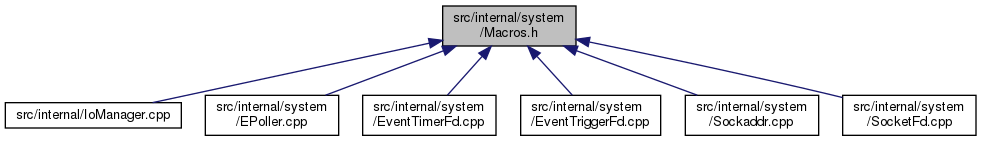
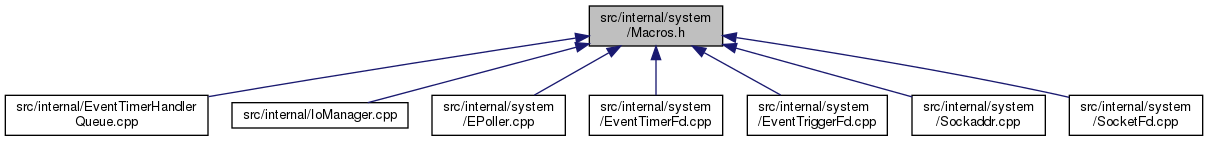
Automated deployment: Fri Apr 17 05:12:01 UTC 2020 eaa268747849b4b2ce93818d199387bb74e9e419

diff --git a/d3/dbb/EventTimerHandlerQueue_8h_source.html b/d3/dbb/EventTimerHandlerQueue_8h_source.html
@@ -71,13 +71,13 @@ $(function() {
 <div class="ttc" id="TimerHandler_8h_html"><div class="ttname"><a href="../../d4/dbc/TimerHandler_8h.html">TimerHandler.h</a></div></div>
 <div class="ttc" id="classcbee_1_1EventTimerHandlerQueue_html_abc90161ed239542453e24f8f355ccb66"><div class="ttname"><a href="../../d7/d2a/classcbee_1_1EventTimerHandlerQueue.html#abc90161ed239542453e24f8f355ccb66">cbee::EventTimerHandlerQueue::fd</a></div><div class="ttdeci">const EventTimerFd fd</div><div class="ttdef"><b>Definition:</b> EventTimerHandlerQueue.h:34</div></div>
 <div class="ttc" id="classcbee_1_1EventTimerHandlerQueue_html_a105545208ad3103f35d28542e97c029d"><div class="ttname"><a href="../../d7/d2a/classcbee_1_1EventTimerHandlerQueue.html#a105545208ad3103f35d28542e97c029d">cbee::EventTimerHandlerQueue::event</a></div><div class="ttdeci">Event event</div><div class="ttdef"><b>Definition:</b> EventTimerHandlerQueue.h:35</div></div>
-<div class="ttc" id="classcbee_1_1EventTimerHandlerQueue_html_a1a69437c4bd0cf27e185bb9898afa47c"><div class="ttname"><a href="../../d7/d2a/classcbee_1_1EventTimerHandlerQueue.html#a1a69437c4bd0cf27e185bb9898afa47c">cbee::EventTimerHandlerQueue::handleRead</a></div><div class="ttdeci">void handleRead()</div><div class="ttdef"><b>Definition:</b> EventTimerHandlerQueue.cpp:44</div></div>
-<div class="ttc" id="classcbee_1_1EventTimerHandlerQueue_html_afa38009162e929af01f66ce1c4568901"><div class="ttname"><a href="../../d7/d2a/classcbee_1_1EventTimerHandlerQueue.html#afa38009162e929af01f66ce1c4568901">cbee::EventTimerHandlerQueue::addHandler</a></div><div class="ttdeci">void addHandler(const TimerHandler &amp;handler)</div><div class="ttdef"><b>Definition:</b> EventTimerHandlerQueue.cpp:20</div></div>
+<div class="ttc" id="classcbee_1_1EventTimerHandlerQueue_html_a1a69437c4bd0cf27e185bb9898afa47c"><div class="ttname"><a href="../../d7/d2a/classcbee_1_1EventTimerHandlerQueue.html#a1a69437c4bd0cf27e185bb9898afa47c">cbee::EventTimerHandlerQueue::handleRead</a></div><div class="ttdeci">void handleRead()</div><div class="ttdef"><b>Definition:</b> EventTimerHandlerQueue.cpp:49</div></div>
+<div class="ttc" id="classcbee_1_1EventTimerHandlerQueue_html_afa38009162e929af01f66ce1c4568901"><div class="ttname"><a href="../../d7/d2a/classcbee_1_1EventTimerHandlerQueue.html#afa38009162e929af01f66ce1c4568901">cbee::EventTimerHandlerQueue::addHandler</a></div><div class="ttdeci">void addHandler(const TimerHandler &amp;handler)</div><div class="ttdef"><b>Definition:</b> EventTimerHandlerQueue.cpp:21</div></div>
 <div class="ttc" id="EventModifierInterface_8h_html"><div class="ttname"><a href="../../d3/d37/EventModifierInterface_8h.html">EventModifierInterface.h</a></div></div>
 <div class="ttc" id="classcbee_1_1EventTimerFd_html"><div class="ttname"><a href="../../df/d5c/classcbee_1_1EventTimerFd.html">cbee::EventTimerFd</a></div><div class="ttdef"><b>Definition:</b> EventTimerFd.h:8</div></div>
-<div class="ttc" id="classcbee_1_1EventTimerHandlerQueue_html_ab0661ecd47742827b60e916c84dee645"><div class="ttname"><a href="../../d7/d2a/classcbee_1_1EventTimerHandlerQueue.html#ab0661ecd47742827b60e916c84dee645">cbee::EventTimerHandlerQueue::cancelHandler</a></div><div class="ttdeci">void cancelHandler(int id)</div><div class="ttdef"><b>Definition:</b> EventTimerHandlerQueue.cpp:29</div></div>
+<div class="ttc" id="classcbee_1_1EventTimerHandlerQueue_html_ab0661ecd47742827b60e916c84dee645"><div class="ttname"><a href="../../d7/d2a/classcbee_1_1EventTimerHandlerQueue.html#ab0661ecd47742827b60e916c84dee645">cbee::EventTimerHandlerQueue::cancelHandler</a></div><div class="ttdeci">void cancelHandler(int id)</div><div class="ttdef"><b>Definition:</b> EventTimerHandlerQueue.cpp:30</div></div>
 <div class="ttc" id="classcbee_1_1EventTimerHandlerQueue_html_ae374d94a6c43fd774bd28ca21905a79c"><div class="ttname"><a href="../../d7/d2a/classcbee_1_1EventTimerHandlerQueue.html#ae374d94a6c43fd774bd28ca21905a79c">cbee::EventTimerHandlerQueue::eventModifier</a></div><div class="ttdeci">const EventModifierInterface &amp; eventModifier</div><div class="ttdef"><b>Definition:</b> EventTimerHandlerQueue.h:33</div></div>
-<div class="ttc" id="classcbee_1_1EventTimerHandlerQueue_html_ae1022edfe83299b7334d20e08183d083"><div class="ttname"><a href="../../d7/d2a/classcbee_1_1EventTimerHandlerQueue.html#ae1022edfe83299b7334d20e08183d083">cbee::EventTimerHandlerQueue::EventTimerHandlerQueue</a></div><div class="ttdeci">EventTimerHandlerQueue(const EventModifierInterface &amp;modifier)</div><div class="ttdef"><b>Definition:</b> EventTimerHandlerQueue.cpp:6</div></div>
+<div class="ttc" id="classcbee_1_1EventTimerHandlerQueue_html_ae1022edfe83299b7334d20e08183d083"><div class="ttname"><a href="../../d7/d2a/classcbee_1_1EventTimerHandlerQueue.html#ae1022edfe83299b7334d20e08183d083">cbee::EventTimerHandlerQueue::EventTimerHandlerQueue</a></div><div class="ttdeci">EventTimerHandlerQueue(const EventModifierInterface &amp;modifier)</div><div class="ttdef"><b>Definition:</b> EventTimerHandlerQueue.cpp:7</div></div>
 <div class="ttc" id="classcbee_1_1TimerHandler_html"><div class="ttname"><a href="../../de/ddd/classcbee_1_1TimerHandler.html">cbee::TimerHandler</a></div><div class="ttdef"><b>Definition:</b> TimerHandler.h:11</div></div>
 <div class="ttc" id="classcbee_1_1EventModifierInterface_html"><div class="ttname"><a href="../../d9/df8/classcbee_1_1EventModifierInterface.html">cbee::EventModifierInterface</a></div><div class="ttdef"><b>Definition:</b> EventModifierInterface.h:8</div></div>
 <div class="ttc" id="classcbee_1_1EventTimerHandlerQueue_html_a8d077bd98ecb91df335fc1ab67484473"><div class="ttname"><a href="../../d7/d2a/classcbee_1_1EventTimerHandlerQueue.html#a8d077bd98ecb91df335fc1ab67484473">cbee::EventTimerHandlerQueue::operator=</a></div><div class="ttdeci">EventTimerHandlerQueue &amp; operator=(const EventTimerHandlerQueue &amp;)=delete</div></div>
@@ -87,9 +87,9 @@ $(function() {
 <div class="ttc" id="namespacecbee_html"><div class="ttname"><a href="../../d1/dd4/namespacecbee.html">cbee</a></div><div class="ttdef"><b>Definition:</b> InetAddress.cpp:3</div></div>
 <div class="ttc" id="Timestamp_8h_html"><div class="ttname"><a href="../../d7/d66/Timestamp_8h.html">Timestamp.h</a></div></div>
 <div class="ttc" id="classcbee_1_1Timestamp_html"><div class="ttname"><a href="../../d0/db3/classcbee_1_1Timestamp.html">cbee::Timestamp</a></div><div class="ttdef"><b>Definition:</b> Timestamp.h:9</div></div>
-<div class="ttc" id="classcbee_1_1EventTimerHandlerQueue_html_a4ffac7ef8571e1d41f2dc317124162ca"><div class="ttname"><a href="../../d7/d2a/classcbee_1_1EventTimerHandlerQueue.html#a4ffac7ef8571e1d41f2dc317124162ca">cbee::EventTimerHandlerQueue::extractExpiredHandlers</a></div><div class="ttdeci">std::vector&lt; TimerHandler &gt; extractExpiredHandlers(Timestamp handleTime)</div><div class="ttdef"><b>Definition:</b> EventTimerHandlerQueue.cpp:59</div></div>
-<div class="ttc" id="classcbee_1_1EventTimerHandlerQueue_html_aed955741a9b53c6611ef56d261804c0b"><div class="ttname"><a href="../../d7/d2a/classcbee_1_1EventTimerHandlerQueue.html#aed955741a9b53c6611ef56d261804c0b">cbee::EventTimerHandlerQueue::~EventTimerHandlerQueue</a></div><div class="ttdeci">~EventTimerHandlerQueue()</div><div class="ttdef"><b>Definition:</b> EventTimerHandlerQueue.cpp:15</div></div>
-<div class="ttc" id="classcbee_1_1EventTimerHandlerQueue_html_a02cedb8fa7683044565dc655f8015a16"><div class="ttname"><a href="../../d7/d2a/classcbee_1_1EventTimerHandlerQueue.html#a02cedb8fa7683044565dc655f8015a16">cbee::EventTimerHandlerQueue::triggerEvent</a></div><div class="ttdeci">void triggerEvent(const std::vector&lt; TimerHandler &gt; &amp;expiredHandlers, Timestamp handleTime)</div><div class="ttdef"><b>Definition:</b> EventTimerHandlerQueue.cpp:74</div></div>
+<div class="ttc" id="classcbee_1_1EventTimerHandlerQueue_html_a4ffac7ef8571e1d41f2dc317124162ca"><div class="ttname"><a href="../../d7/d2a/classcbee_1_1EventTimerHandlerQueue.html#a4ffac7ef8571e1d41f2dc317124162ca">cbee::EventTimerHandlerQueue::extractExpiredHandlers</a></div><div class="ttdeci">std::vector&lt; TimerHandler &gt; extractExpiredHandlers(Timestamp handleTime)</div><div class="ttdef"><b>Definition:</b> EventTimerHandlerQueue.cpp:64</div></div>
+<div class="ttc" id="classcbee_1_1EventTimerHandlerQueue_html_aed955741a9b53c6611ef56d261804c0b"><div class="ttname"><a href="../../d7/d2a/classcbee_1_1EventTimerHandlerQueue.html#aed955741a9b53c6611ef56d261804c0b">cbee::EventTimerHandlerQueue::~EventTimerHandlerQueue</a></div><div class="ttdeci">~EventTimerHandlerQueue()</div><div class="ttdef"><b>Definition:</b> EventTimerHandlerQueue.cpp:16</div></div>
+<div class="ttc" id="classcbee_1_1EventTimerHandlerQueue_html_a02cedb8fa7683044565dc655f8015a16"><div class="ttname"><a href="../../d7/d2a/classcbee_1_1EventTimerHandlerQueue.html#a02cedb8fa7683044565dc655f8015a16">cbee::EventTimerHandlerQueue::triggerEvent</a></div><div class="ttdeci">void triggerEvent(const std::vector&lt; TimerHandler &gt; &amp;expiredHandlers, Timestamp handleTime)</div><div class="ttdef"><b>Definition:</b> EventTimerHandlerQueue.cpp:79</div></div>
 </div><!-- fragment --></div><!-- contents -->
 <!-- start footer part -->
 <hr class="footer"/><address class="footer"><small>

diff --git a/df/d0a/Macros_8h.html b/df/d0a/Macros_8h.html
@@ -82,12 +82,13 @@ This graph shows which files directly or indirectly include this file:</div>
 <div class="dyncontent">
 <div class="center"><img src="../../d0/da9/Macros_8h__dep__incl.png" border="0" usemap="#src_2internal_2system_2Macros_8hdep" alt=""/></div>
 <map name="src_2internal_2system_2Macros_8hdep" id="src_2internal_2system_2Macros_8hdep">
-<area shape="rect" id="node2" href="../../de/db3/IoManager_8cpp.html" title="src/internal/IoManager.cpp" alt="" coords="5,102,181,129"/>
-<area shape="rect" id="node3" href="../../d9/dc5/EPoller_8cpp.html" title="src/internal/system\l/EPoller.cpp" alt="" coords="205,95,339,136"/>
-<area shape="rect" id="node4" href="../../d7/dea/EventTimerFd_8cpp.html" title="src/internal/system\l/EventTimerFd.cpp" alt="" coords="363,95,496,136"/>
-<area shape="rect" id="node5" href="../../df/df6/EventTriggerFd_8cpp.html" title="src/internal/system\l/EventTriggerFd.cpp" alt="" coords="521,95,661,136"/>
-<area shape="rect" id="node6" href="../../d9/def/Sockaddr_8cpp.html" title="src/internal/system\l/Sockaddr.cpp" alt="" coords="685,95,819,136"/>
-<area shape="rect" id="node7" href="../../d6/dc7/SocketFd_8cpp.html" title="src/internal/system\l/SocketFd.cpp" alt="" coords="843,95,976,136"/>
+<area shape="rect" id="node2" href="../../d6/d42/EventTimerHandlerQueue_8cpp.html" title="src/internal/EventTimerHandler\lQueue.cpp" alt="" coords="5,95,208,136"/>
+<area shape="rect" id="node3" href="../../de/db3/IoManager_8cpp.html" title="src/internal/IoManager.cpp" alt="" coords="232,102,408,129"/>
+<area shape="rect" id="node4" href="../../d9/dc5/EPoller_8cpp.html" title="src/internal/system\l/EPoller.cpp" alt="" coords="432,95,565,136"/>
+<area shape="rect" id="node5" href="../../d7/dea/EventTimerFd_8cpp.html" title="src/internal/system\l/EventTimerFd.cpp" alt="" coords="589,95,723,136"/>
+<area shape="rect" id="node6" href="../../df/df6/EventTriggerFd_8cpp.html" title="src/internal/system\l/EventTriggerFd.cpp" alt="" coords="747,95,887,136"/>
+<area shape="rect" id="node7" href="../../d9/def/Sockaddr_8cpp.html" title="src/internal/system\l/Sockaddr.cpp" alt="" coords="912,95,1045,136"/>
+<area shape="rect" id="node8" href="../../d6/dc7/SocketFd_8cpp.html" title="src/internal/system\l/SocketFd.cpp" alt="" coords="1069,95,1203,136"/>
 </map>
 </div>
 </div>
@@ -115,7 +116,7 @@ Macros</h2></td></tr>
       </table>
 </div><div class="memdoc">
 <b>Value:</b><div class="fragment"><div class="line"><span class="keywordflow">do</span>                     \</div><div class="line">   {                      \</div><div class="line">      perror(msg);        \</div><div class="line">      exit(EXIT_FAILURE); \</div><div class="line">   } <span class="keywordflow">while</span> (0)</div></div><!-- fragment -->
-<p class="reference">Referenced by <a class="el" href="../../dd/ddc/classcbee_1_1SocketFd.html#ac67bdfd2756d95afc6978afcf0668dce">cbee::SocketFd::accept()</a>, <a class="el" href="../../dd/ddc/classcbee_1_1SocketFd.html#a601754f3a0b91640bf8d48d89b9a9b68">cbee::SocketFd::bind()</a>, <a class="el" href="../../df/d5c/classcbee_1_1EventTimerFd.html#acd7bddeb6faf1b184c69a114cbc1b923">cbee::EventTimerFd::cleanEvent()</a>, <a class="el" href="../../df/d7d/classcbee_1_1EventTriggerFd.html#a63b3908714b8cbc2ce4a3581e00d6b00">cbee::EventTriggerFd::cleanEvents()</a>, <a class="el" href="../../dd/ddc/classcbee_1_1SocketFd.html#a6f26b3cac5044b56651d18830b582de6">cbee::SocketFd::connect()</a>, <a class="el" href="../../da/db8/classcbee_1_1EPoller.html#afda63bc9c1d70fbde01beaf055f9c771">cbee::EPoller::deleteEvent()</a>, <a class="el" href="../../dd/ddc/classcbee_1_1SocketFd.html#ae518409a26e99ca4f3353ea96c261a4d">cbee::SocketFd::getLocalAddr()</a>, <a class="el" href="../../dd/ddc/classcbee_1_1SocketFd.html#a8ce3169fa90d145ab2e5d45f120ff303">cbee::SocketFd::getPeerAddr()</a>, <a class="el" href="../../dc/daf/classcbee_1_1IoManager.html#a13eca2975fda5f9821d71fed932dc1c6">cbee::IoManager::isInLoopThread()</a>, <a class="el" href="../../dd/ddc/classcbee_1_1SocketFd.html#a54a2fefde17c64032d6cfc3968c473b2">cbee::SocketFd::listen()</a>, <a class="el" href="../../da/db8/classcbee_1_1EPoller.html#a2779640fe29ce04611cdeed4769023fd">cbee::EPoller::poll()</a>, <a class="el" href="../../d0/da4/classcbee_1_1Sockaddr.html#afe77415a1605ccb33c966e6ed22e9732">cbee::Sockaddr::setIp()</a>, <a class="el" href="../../dd/ddc/classcbee_1_1SocketFd.html#a731f67cce83b0bc3a64f9484a4f52cae">cbee::SocketFd::setNonBlock()</a>, <a class="el" href="../../dd/ddc/classcbee_1_1SocketFd.html#a8f2c1b66d40988be355af442466592f8">cbee::SocketFd::shutdown()</a>, <a class="el" href="../../dd/ddc/classcbee_1_1SocketFd.html#a1b0f1714e23058bc16fa4a03df9e938b">cbee::SocketFd::shutdownRead()</a>, <a class="el" href="../../dd/ddc/classcbee_1_1SocketFd.html#a2f8331ff24a4ebfc47501c5576270977">cbee::SocketFd::shutdownWrite()</a>, <a class="el" href="../../df/d7d/classcbee_1_1EventTriggerFd.html#ae1eeac93f089d2dad85ed0ed3fb129d7">cbee::EventTriggerFd::triggerEvent()</a>, <a class="el" href="../../df/d5c/classcbee_1_1EventTimerFd.html#abc59389abedc4bacd71752b5bb43694a">cbee::EventTimerFd::triggerEventAt()</a>, and <a class="el" href="../../da/db8/classcbee_1_1EPoller.html#a17b73c9b1adc9274c0d8741d9b18d61a">cbee::EPoller::updateEvent()</a>.</p>
+<p class="reference">Referenced by <a class="el" href="../../dd/ddc/classcbee_1_1SocketFd.html#ac67bdfd2756d95afc6978afcf0668dce">cbee::SocketFd::accept()</a>, <a class="el" href="../../dd/ddc/classcbee_1_1SocketFd.html#a601754f3a0b91640bf8d48d89b9a9b68">cbee::SocketFd::bind()</a>, <a class="el" href="../../d7/d2a/classcbee_1_1EventTimerHandlerQueue.html#ab0661ecd47742827b60e916c84dee645">cbee::EventTimerHandlerQueue::cancelHandler()</a>, <a class="el" href="../../df/d5c/classcbee_1_1EventTimerFd.html#acd7bddeb6faf1b184c69a114cbc1b923">cbee::EventTimerFd::cleanEvent()</a>, <a class="el" href="../../df/d7d/classcbee_1_1EventTriggerFd.html#a63b3908714b8cbc2ce4a3581e00d6b00">cbee::EventTriggerFd::cleanEvents()</a>, <a class="el" href="../../dd/ddc/classcbee_1_1SocketFd.html#a6f26b3cac5044b56651d18830b582de6">cbee::SocketFd::connect()</a>, <a class="el" href="../../da/db8/classcbee_1_1EPoller.html#afda63bc9c1d70fbde01beaf055f9c771">cbee::EPoller::deleteEvent()</a>, <a class="el" href="../../dd/ddc/classcbee_1_1SocketFd.html#ae518409a26e99ca4f3353ea96c261a4d">cbee::SocketFd::getLocalAddr()</a>, <a class="el" href="../../dd/ddc/classcbee_1_1SocketFd.html#a8ce3169fa90d145ab2e5d45f120ff303">cbee::SocketFd::getPeerAddr()</a>, <a class="el" href="../../dc/daf/classcbee_1_1IoManager.html#a13eca2975fda5f9821d71fed932dc1c6">cbee::IoManager::isInLoopThread()</a>, <a class="el" href="../../dd/ddc/classcbee_1_1SocketFd.html#a54a2fefde17c64032d6cfc3968c473b2">cbee::SocketFd::listen()</a>, <a class="el" href="../../da/db8/classcbee_1_1EPoller.html#a2779640fe29ce04611cdeed4769023fd">cbee::EPoller::poll()</a>, <a class="el" href="../../d0/da4/classcbee_1_1Sockaddr.html#afe77415a1605ccb33c966e6ed22e9732">cbee::Sockaddr::setIp()</a>, <a class="el" href="../../dd/ddc/classcbee_1_1SocketFd.html#a731f67cce83b0bc3a64f9484a4f52cae">cbee::SocketFd::setNonBlock()</a>, <a class="el" href="../../dd/ddc/classcbee_1_1SocketFd.html#a8f2c1b66d40988be355af442466592f8">cbee::SocketFd::shutdown()</a>, <a class="el" href="../../dd/ddc/classcbee_1_1SocketFd.html#a1b0f1714e23058bc16fa4a03df9e938b">cbee::SocketFd::shutdownRead()</a>, <a class="el" href="../../dd/ddc/classcbee_1_1SocketFd.html#a2f8331ff24a4ebfc47501c5576270977">cbee::SocketFd::shutdownWrite()</a>, <a class="el" href="../../df/d7d/classcbee_1_1EventTriggerFd.html#ae1eeac93f089d2dad85ed0ed3fb129d7">cbee::EventTriggerFd::triggerEvent()</a>, <a class="el" href="../../df/d5c/classcbee_1_1EventTimerFd.html#abc59389abedc4bacd71752b5bb43694a">cbee::EventTimerFd::triggerEventAt()</a>, and <a class="el" href="../../da/db8/classcbee_1_1EPoller.html#a17b73c9b1adc9274c0d8741d9b18d61a">cbee::EPoller::updateEvent()</a>.</p>
 
 </div>
 </div>

diff --git a/dir_000001_000003.html b/dir_000001_000003.html
@@ -62,7 +62,7 @@ $(function() {
 </div>
 </div><!-- top -->
 <div class="contents">
-<h3>internal &rarr; system Relation</h3><table class="dirtab"><tr class="dirtab"><th class="dirtab">File in src/internal</th><th class="dirtab">Includes file in src/internal/system</th></tr><tr class="dirtab"><td class="dirtab"><a class="el" href="d3/dbb/EventTimerHandlerQueue_8h.html">EventTimerHandlerQueue.h</a></td><td class="dirtab"><a class="el" href="d6/d8d/Event_8h.html">Event.h</a></td></tr><tr class="dirtab"><td class="dirtab"><a class="el" href="d3/dbb/EventTimerHandlerQueue_8h.html">EventTimerHandlerQueue.h</a></td><td class="dirtab"><a class="el" href="d3/d37/EventModifierInterface_8h.html">EventModifierInterface.h</a></td></tr><tr class="dirtab"><td class="dirtab"><a class="el" href="d3/dbb/EventTimerHandlerQueue_8h.html">EventTimerHandlerQueue.h</a></td><td class="dirtab"><a class="el" href="d8/dac/EventTimerFd_8h.html">EventTimerFd.h</a></td></tr><tr class="dirtab"><td class="dirtab"><a class="el" href="d3/dbb/EventTimerHandlerQueue_8h.html">EventTimerHandlerQueue.h</a></td><td class="dirtab"><a class="el" href="d7/d66/Timestamp_8h.html">Timestamp.h</a></td></tr><tr class="dirtab"><td class="dirtab"><a class="el" href="d4/de0/EventTrigger_8h.html">EventTrigger.h</a></td><td class="dirtab"><a class="el" href="d6/d8d/Event_8h.html">Event.h</a></td></tr><tr class="dirtab"><td class="dirtab"><a class="el" href="d4/de0/EventTrigger_8h.html">EventTrigger.h</a></td><td class="dirtab"><a class="el" href="d3/d37/EventModifierInterface_8h.html">EventModifierInterface.h</a></td></tr><tr class="dirtab"><td class="dirtab"><a class="el" href="d4/de0/EventTrigger_8h.html">EventTrigger.h</a></td><td class="dirtab"><a class="el" href="dd/d1c/EventTriggerFd_8h.html">EventTriggerFd.h</a></td></tr><tr class="dirtab"><td class="dirtab"><a class="el" href="de/db3/IoManager_8cpp.html">IoManager.cpp</a></td><td class="dirtab"><a class="el" href="df/d0a/Macros_8h.html">Macros.h</a></td></tr><tr class="dirtab"><td class="dirtab"><a class="el" href="d2/d76/IoManager_8h.html">IoManager.h</a></td><td class="dirtab"><a class="el" href="d2/d18/EPoller_8h.html">EPoller.h</a></td></tr><tr class="dirtab"><td class="dirtab"><a class="el" href="d2/d76/IoManager_8h.html">IoManager.h</a></td><td class="dirtab"><a class="el" href="d6/d8d/Event_8h.html">Event.h</a></td></tr><tr class="dirtab"><td class="dirtab"><a class="el" href="d2/d76/IoManager_8h.html">IoManager.h</a></td><td class="dirtab"><a class="el" href="d7/d66/Timestamp_8h.html">Timestamp.h</a></td></tr><tr class="dirtab"><td class="dirtab"><a class="el" href="d4/dbc/TimerHandler_8h.html">TimerHandler.h</a></td><td class="dirtab"><a class="el" href="d7/d66/Timestamp_8h.html">Timestamp.h</a></td></tr></table></div><!-- contents -->
+<h3>internal &rarr; system Relation</h3><table class="dirtab"><tr class="dirtab"><th class="dirtab">File in src/internal</th><th class="dirtab">Includes file in src/internal/system</th></tr><tr class="dirtab"><td class="dirtab"><a class="el" href="d6/d42/EventTimerHandlerQueue_8cpp.html">EventTimerHandlerQueue.cpp</a></td><td class="dirtab"><a class="el" href="df/d0a/Macros_8h.html">Macros.h</a></td></tr><tr class="dirtab"><td class="dirtab"><a class="el" href="d3/dbb/EventTimerHandlerQueue_8h.html">EventTimerHandlerQueue.h</a></td><td class="dirtab"><a class="el" href="d6/d8d/Event_8h.html">Event.h</a></td></tr><tr class="dirtab"><td class="dirtab"><a class="el" href="d3/dbb/EventTimerHandlerQueue_8h.html">EventTimerHandlerQueue.h</a></td><td class="dirtab"><a class="el" href="d3/d37/EventModifierInterface_8h.html">EventModifierInterface.h</a></td></tr><tr class="dirtab"><td class="dirtab"><a class="el" href="d3/dbb/EventTimerHandlerQueue_8h.html">EventTimerHandlerQueue.h</a></td><td class="dirtab"><a class="el" href="d8/dac/EventTimerFd_8h.html">EventTimerFd.h</a></td></tr><tr class="dirtab"><td class="dirtab"><a class="el" href="d3/dbb/EventTimerHandlerQueue_8h.html">EventTimerHandlerQueue.h</a></td><td class="dirtab"><a class="el" href="d7/d66/Timestamp_8h.html">Timestamp.h</a></td></tr><tr class="dirtab"><td class="dirtab"><a class="el" href="d4/de0/EventTrigger_8h.html">EventTrigger.h</a></td><td class="dirtab"><a class="el" href="d6/d8d/Event_8h.html">Event.h</a></td></tr><tr class="dirtab"><td class="dirtab"><a class="el" href="d4/de0/EventTrigger_8h.html">EventTrigger.h</a></td><td class="dirtab"><a class="el" href="d3/d37/EventModifierInterface_8h.html">EventModifierInterface.h</a></td></tr><tr class="dirtab"><td class="dirtab"><a class="el" href="d4/de0/EventTrigger_8h.html">EventTrigger.h</a></td><td class="dirtab"><a class="el" href="dd/d1c/EventTriggerFd_8h.html">EventTriggerFd.h</a></td></tr><tr class="dirtab"><td class="dirtab"><a class="el" href="de/db3/IoManager_8cpp.html">IoManager.cpp</a></td><td class="dirtab"><a class="el" href="df/d0a/Macros_8h.html">Macros.h</a></td></tr><tr class="dirtab"><td class="dirtab"><a class="el" href="d2/d76/IoManager_8h.html">IoManager.h</a></td><td class="dirtab"><a class="el" href="d2/d18/EPoller_8h.html">EPoller.h</a></td></tr><tr class="dirtab"><td class="dirtab"><a class="el" href="d2/d76/IoManager_8h.html">IoManager.h</a></td><td class="dirtab"><a class="el" href="d6/d8d/Event_8h.html">Event.h</a></td></tr><tr class="dirtab"><td class="dirtab"><a class="el" href="d2/d76/IoManager_8h.html">IoManager.h</a></td><td class="dirtab"><a class="el" href="d7/d66/Timestamp_8h.html">Timestamp.h</a></td></tr><tr class="dirtab"><td class="dirtab"><a class="el" href="d4/dbc/TimerHandler_8h.html">TimerHandler.h</a></td><td class="dirtab"><a class="el" href="d7/d66/Timestamp_8h.html">Timestamp.h</a></td></tr></table></div><!-- contents -->
 <!-- start footer part -->
 <hr class="footer"/><address class="footer"><small>
 Generated by &#160;<a href="http://www.doxygen.org/index.html">

diff --git a/d6/d42/EventTimerHandlerQueue_8cpp.html b/d6/d42/EventTimerHandlerQueue_8cpp.html
@@ -69,17 +69,19 @@ $(function() {
 </div><!--header-->
 <div class="contents">
 <div class="textblock"><code>#include &quot;<a class="el" href="../../d3/dbb/EventTimerHandlerQueue_8h_source.html">EventTimerHandlerQueue.h</a>&quot;</code><br />
+<code>#include &quot;<a class="el" href="../../df/d0a/Macros_8h_source.html">internal/system/Macros.h</a>&quot;</code><br />
 </div><div class="textblock"><div class="dynheader">
 Include dependency graph for EventTimerHandlerQueue.cpp:</div>
 <div class="dyncontent">
 <div class="center"><img src="../../d7/d5a/EventTimerHandlerQueue_8cpp__incl.png" border="0" usemap="#src_2internal_2EventTimerHandlerQueue_8cpp" alt=""/></div>
 <map name="src_2internal_2EventTimerHandlerQueue_8cpp" id="src_2internal_2EventTimerHandlerQueue_8cpp">
-<area shape="rect" id="node2" href="../../d3/dbb/EventTimerHandlerQueue_8h.html" title="EventTimerHandlerQueue.h" alt="" coords="302,95,485,121"/>
-<area shape="rect" id="node3" href="../../d3/d37/EventModifierInterface_8h.html" title="internal/system/EventModifier\lInterface.h" alt="" coords="25,169,220,211"/>
-<area shape="rect" id="node4" href="../../d6/d8d/Event_8h.html" title="Event.h" alt="" coords="89,259,156,285"/>
-<area shape="rect" id="node7" href="../../d8/dac/EventTimerFd_8h.html" title="internal/system/EventTimerFd.h" alt="" coords="431,177,639,203"/>
-<area shape="rect" id="node8" href="../../d7/d66/Timestamp_8h.html" title="Timestamp.h" alt="" coords="353,259,452,285"/>
-<area shape="rect" id="node11" href="../../d4/dbc/TimerHandler_8h.html" title="TimerHandler.h" alt="" coords="245,177,355,203"/>
+<area shape="rect" id="node2" href="../../d3/dbb/EventTimerHandlerQueue_8h.html" title="EventTimerHandlerQueue.h" alt="" coords="394,95,577,121"/>
+<area shape="rect" id="node15" href="../../df/d0a/Macros_8h.html" title="internal/system/Macros.h" alt="" coords="794,95,963,121"/>
+<area shape="rect" id="node3" href="../../d3/d37/EventModifierInterface_8h.html" title="internal/system/EventModifier\lInterface.h" alt="" coords="577,169,772,211"/>
+<area shape="rect" id="node4" href="../../d6/d8d/Event_8h.html" title="Event.h" alt="" coords="641,259,708,285"/>
+<area shape="rect" id="node7" href="../../d8/dac/EventTimerFd_8h.html" title="internal/system/EventTimerFd.h" alt="" coords="5,177,213,203"/>
+<area shape="rect" id="node8" href="../../d7/d66/Timestamp_8h.html" title="Timestamp.h" alt="" coords="196,259,295,285"/>
+<area shape="rect" id="node11" href="../../d4/dbc/TimerHandler_8h.html" title="TimerHandler.h" alt="" coords="289,177,399,203"/>
 </map>
 </div>
 </div><table class="memberdecls">

diff --git a/dir_3756d50f4003bc63fa3fe49460f9c79d.html b/dir_3756d50f4003bc63fa3fe49460f9c79d.html
@@ -72,7 +72,7 @@ Directory dependency graph for internal:</div>
 <div class="center"><img src="dir_3756d50f4003bc63fa3fe49460f9c79d_dep.png" border="0" usemap="#dir__3756d50f4003bc63fa3fe49460f9c79d__dep" alt="src/internal"/></div>
 <map name="dir__3756d50f4003bc63fa3fe49460f9c79d__dep" id="dir__3756d50f4003bc63fa3fe49460f9c79d__dep">
 <area shape="rect" id="node3" href="dir_3bb023db3bcba81a253f3a85a0fe8286.html" title="system" alt="" coords="85,159,157,207"/>
-<area shape="rect" id="edge4-headlabel" href="dir_000001_000003.html" title="12" alt="" coords="101,131,116,145"/>
+<area shape="rect" id="edge4-headlabel" href="dir_000001_000003.html" title="13" alt="" coords="101,131,116,145"/>
 <area shape="rect" id="node4" href="dir_2241064965c8d9ca993f08b926076f7d.html" title="log" alt="" coords="237,159,309,207"/>
 <area shape="rect" id="edge5-headlabel" href="dir_000001_000004.html" title="2" alt="" coords="220,148,228,162"/>
 <area shape="rect" id="node2" href="dir_d85eb07d9008ba10e8bb7b37aedd6e39.html" title="lib" alt="" coords="133,63,205,111"/>

diff --git a/d7/d2a/classcbee_1_1EventTimerHandlerQueue.html b/d7/d2a/classcbee_1_1EventTimerHandlerQueue.html
@@ -224,7 +224,7 @@ Private Attributes</h2></td></tr>
       </table>
 </div><div class="memdoc">
 
-<p class="reference">References <a class="el" href="../../d7/d2a/classcbee_1_1EventTimerHandlerQueue.html#a46a142b952be2ce7fff500a9c4748fa8">handlerQueue</a>.</p>
+<p class="reference">References <a class="el" href="../../df/d0a/Macros_8h.html#a7ae9713e5bdb204b1554308906fcc55d">HANDLE_ERROR</a>, and <a class="el" href="../../d7/d2a/classcbee_1_1EventTimerHandlerQueue.html#a46a142b952be2ce7fff500a9c4748fa8">handlerQueue</a>.</p>
 
 <p class="reference">Referenced by <a class="el" href="../../dc/daf/classcbee_1_1IoManager.html#a152a683cddc598cd1551775b3c9eda8b">cbee::IoManager::cancelTimerHandler()</a>.</p>
 
